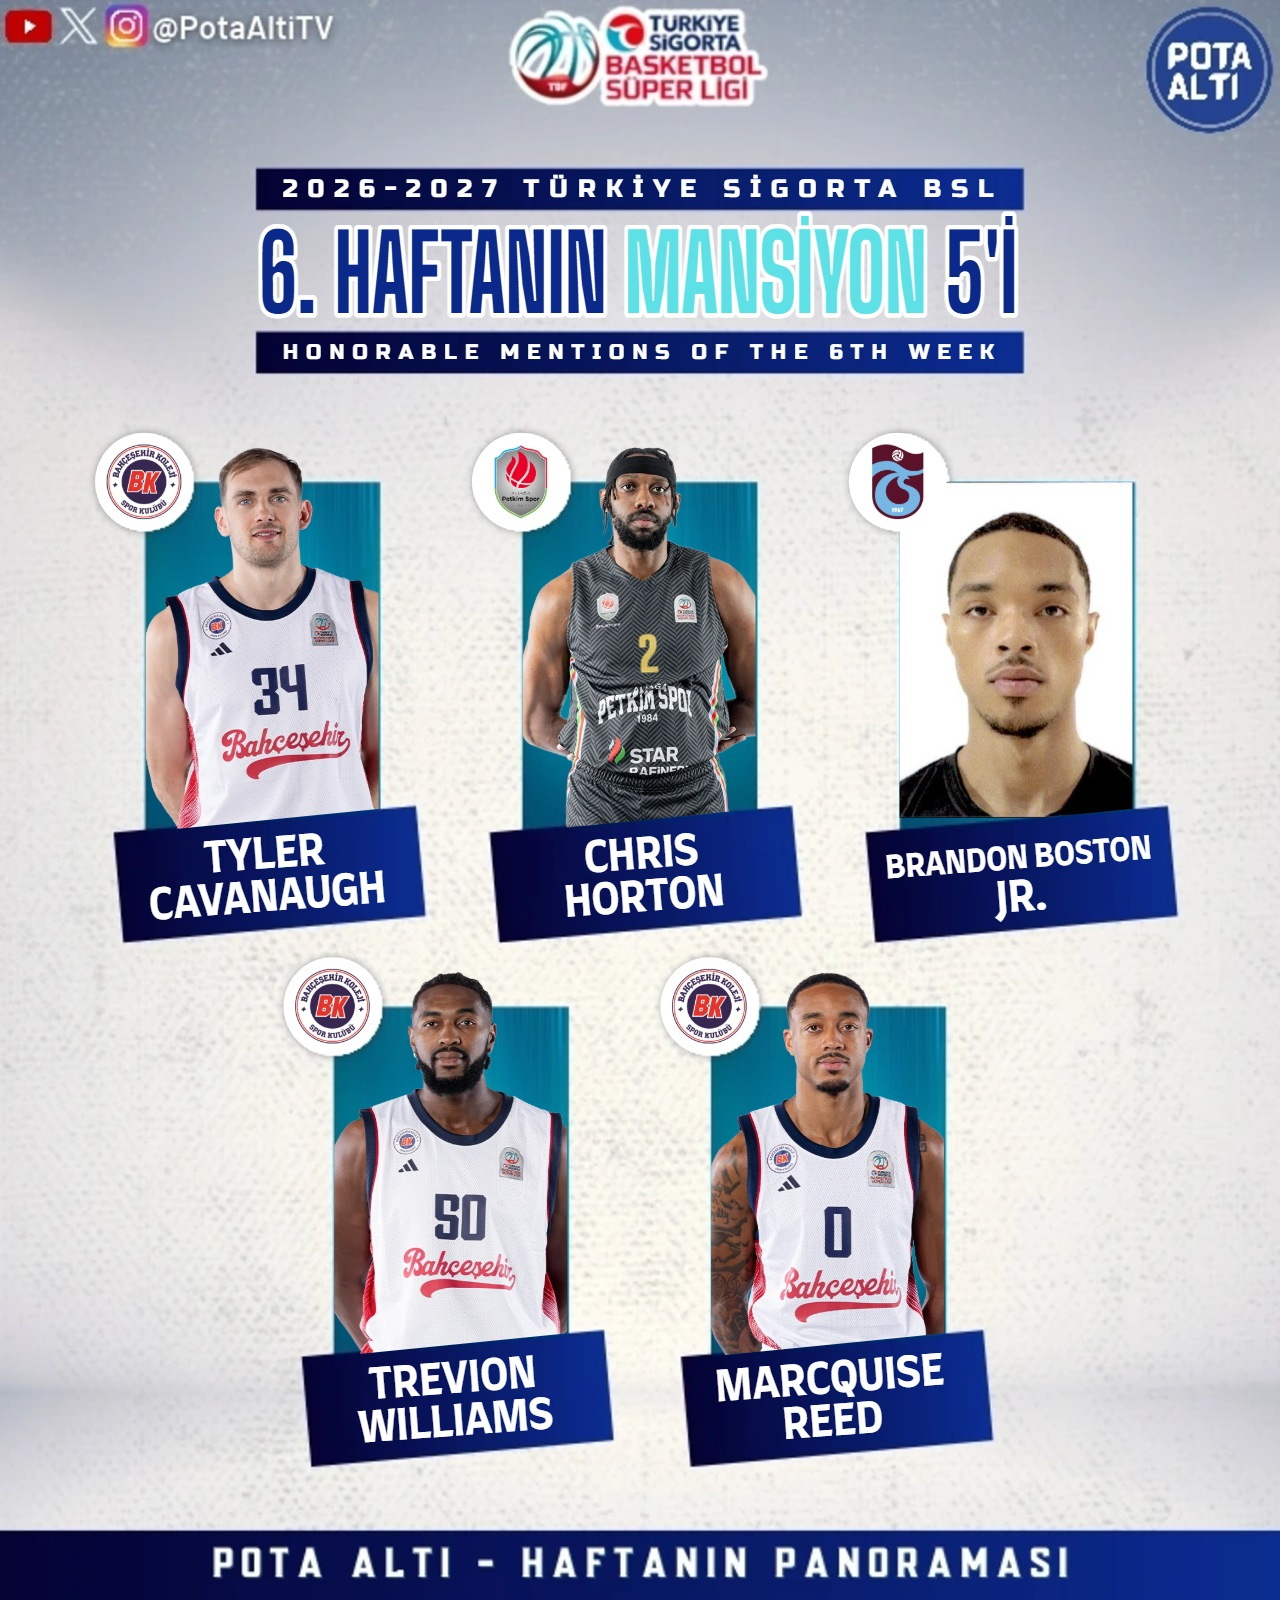
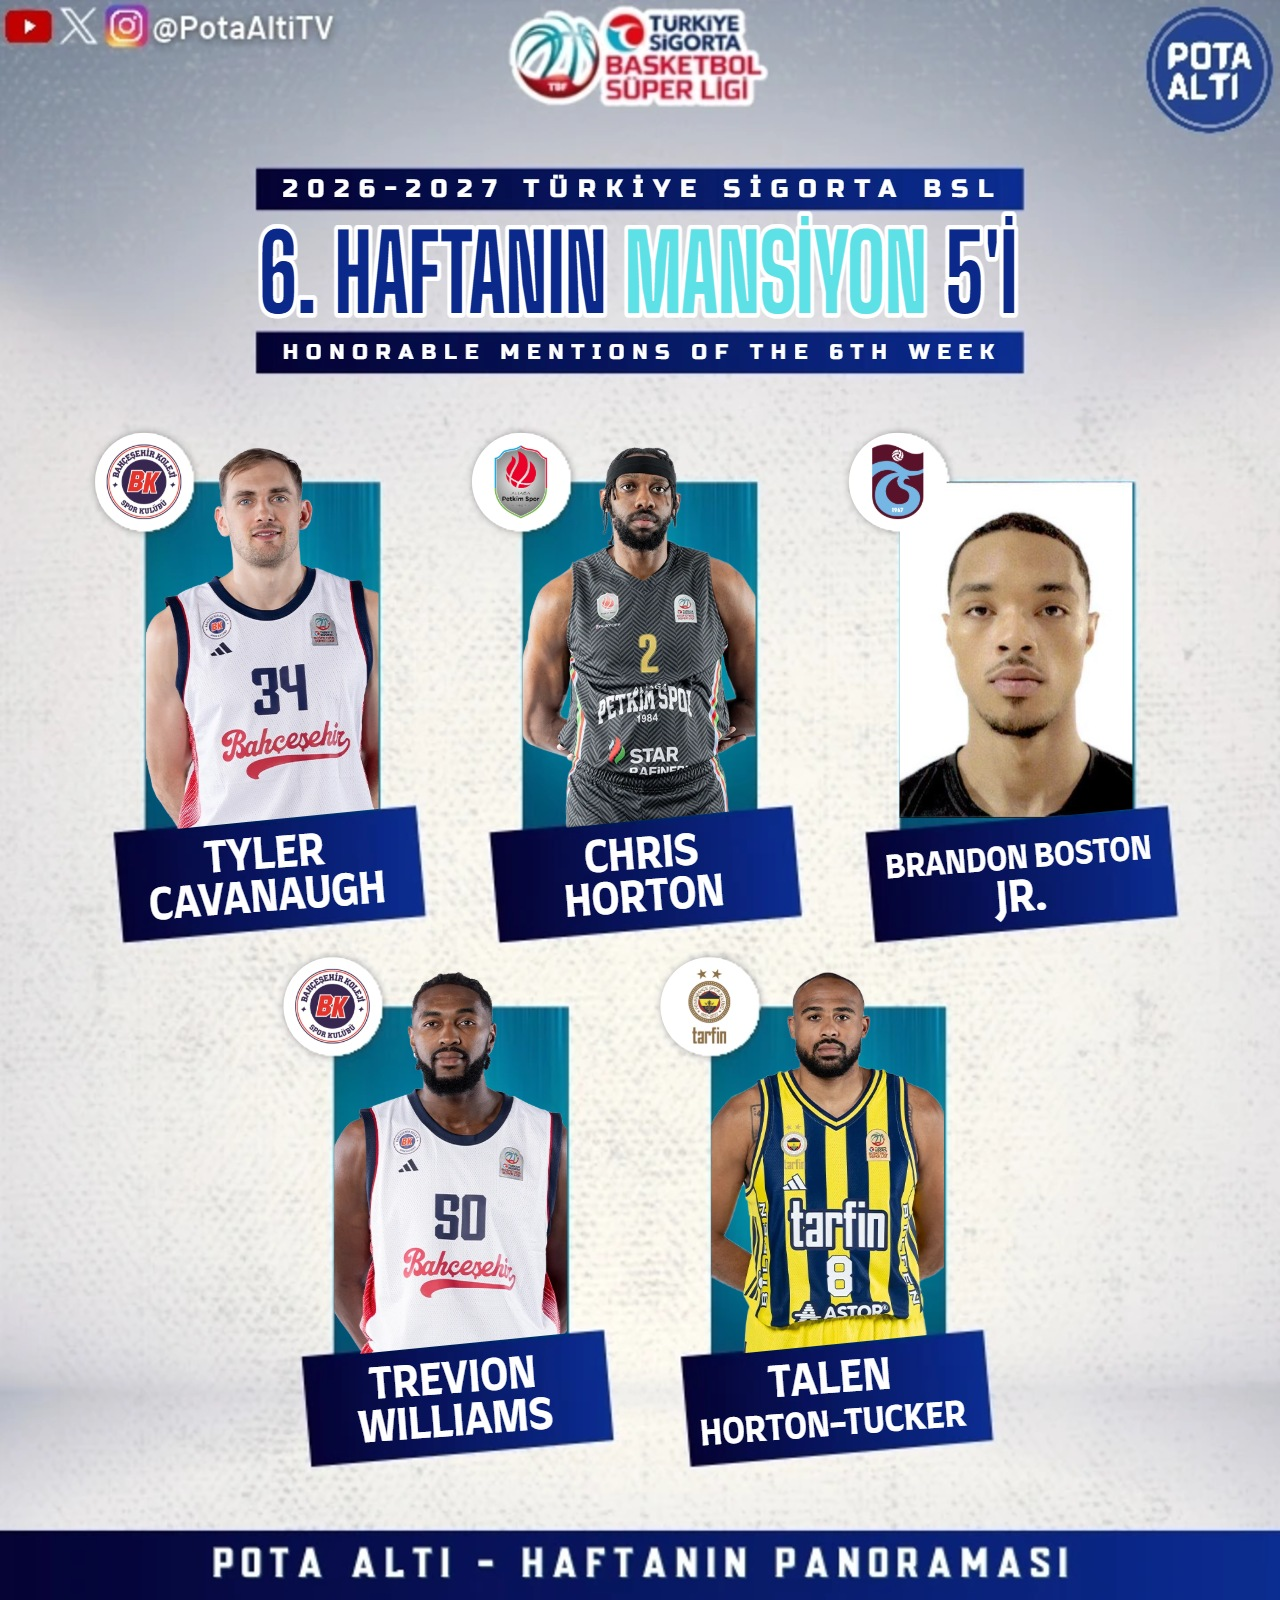
BSL 5'leri: aynı takımdan en fazla 2 oyuncu; 6. hafta Mansiyon 5 yenilendi

Changed region(s): [[0.5312, 0.5938, 0.75, 0.9062]]

diff --git a/site/app.js b/site/app.js
@@ -544,6 +544,7 @@ async function odulHaftasi(h) {
 //   MVP: takımı kazanan en yüksek VP · Kazanan Yerli MVP: takımı kazanan en iyi yerli · Kaybeden Yerli / Yabancı MVP: takımı kaybeden
 //   en iyi yerli / yabancı (bir oyuncu tek bir tekli ödül alır; tekli ödül alan 5'lere de girebilir)
 //   Altın, Gümüş, Bronz 5: kalanlardan en iyi 3 Arka + 2 Ön · Mansiyon 5: kalanlardan en iyi 5, hepsi aynı mevkiden olamaz
+//   Bir 5'te aynı takımdan en fazla 2 oyuncu (sıradaki takımı dolmamış oyuncu girer)
 function bslListesi(oyuncular) {
   const sira = [...oyuncular].sort((a, b) => b.vp - a.vp || b.sayi - a.sayi);
   const notlar = [], verilen = new Set(), satirlar = [];
@@ -557,15 +558,22 @@ function bslListesi(oyuncular) {
   const kalan = sira.filter(o => o.vp > 0);
   const al = o => kalan.splice(kalan.indexOf(o), 1)[0];
   const mevkisi = o => o.mevki ?? 'arka';
+  const takimDolu = (secilen, o) => secilen.filter(x => x.takim === o.takim).length >= 2;
   const gruplar = [];
   for (let i = 0; i < 3; i++) {
-    const arka = kalan.filter(o => mevkisi(o) === 'arka').slice(0, 3), on = kalan.filter(o => mevkisi(o) === 'on').slice(0, 2);
-    gruplar.push([...arka, ...on].sort((a, b) => b.vp - a.vp || b.sayi - a.sayi).map(al));
+    const secilen = [], kota = { arka: 3, on: 2 };
+    for (const o of kalan) {
+      if (secilen.length === 5) break;
+      if (kota[mevkisi(o)] > 0 && !takimDolu(secilen, o)) { secilen.push(o); kota[mevkisi(o)]--; }
+    }
+    gruplar.push(secilen.map(al));
   }
-  const mansiyon = kalan.slice(0, 5);
+  const mansiyon = [];
+  for (const o of kalan) if (mansiyon.length < 5 && !takimDolu(mansiyon, o)) mansiyon.push(o);
   if (mansiyon.length === 5 && new Set(mansiyon.map(mevkisi)).size === 1) {
-    const diger = kalan.find(o => mevkisi(o) !== mevkisi(mansiyon[0]));
-    if (diger) mansiyon.splice(4, 1, diger);
+    const son = mansiyon.pop();
+    const diger = kalan.find(o => mevkisi(o) !== mevkisi(son) && !takimDolu(mansiyon, o));
+    mansiyon.push(diger ?? son);
   }
   gruplar.push(mansiyon);
   for (const o of oyuncular) {
